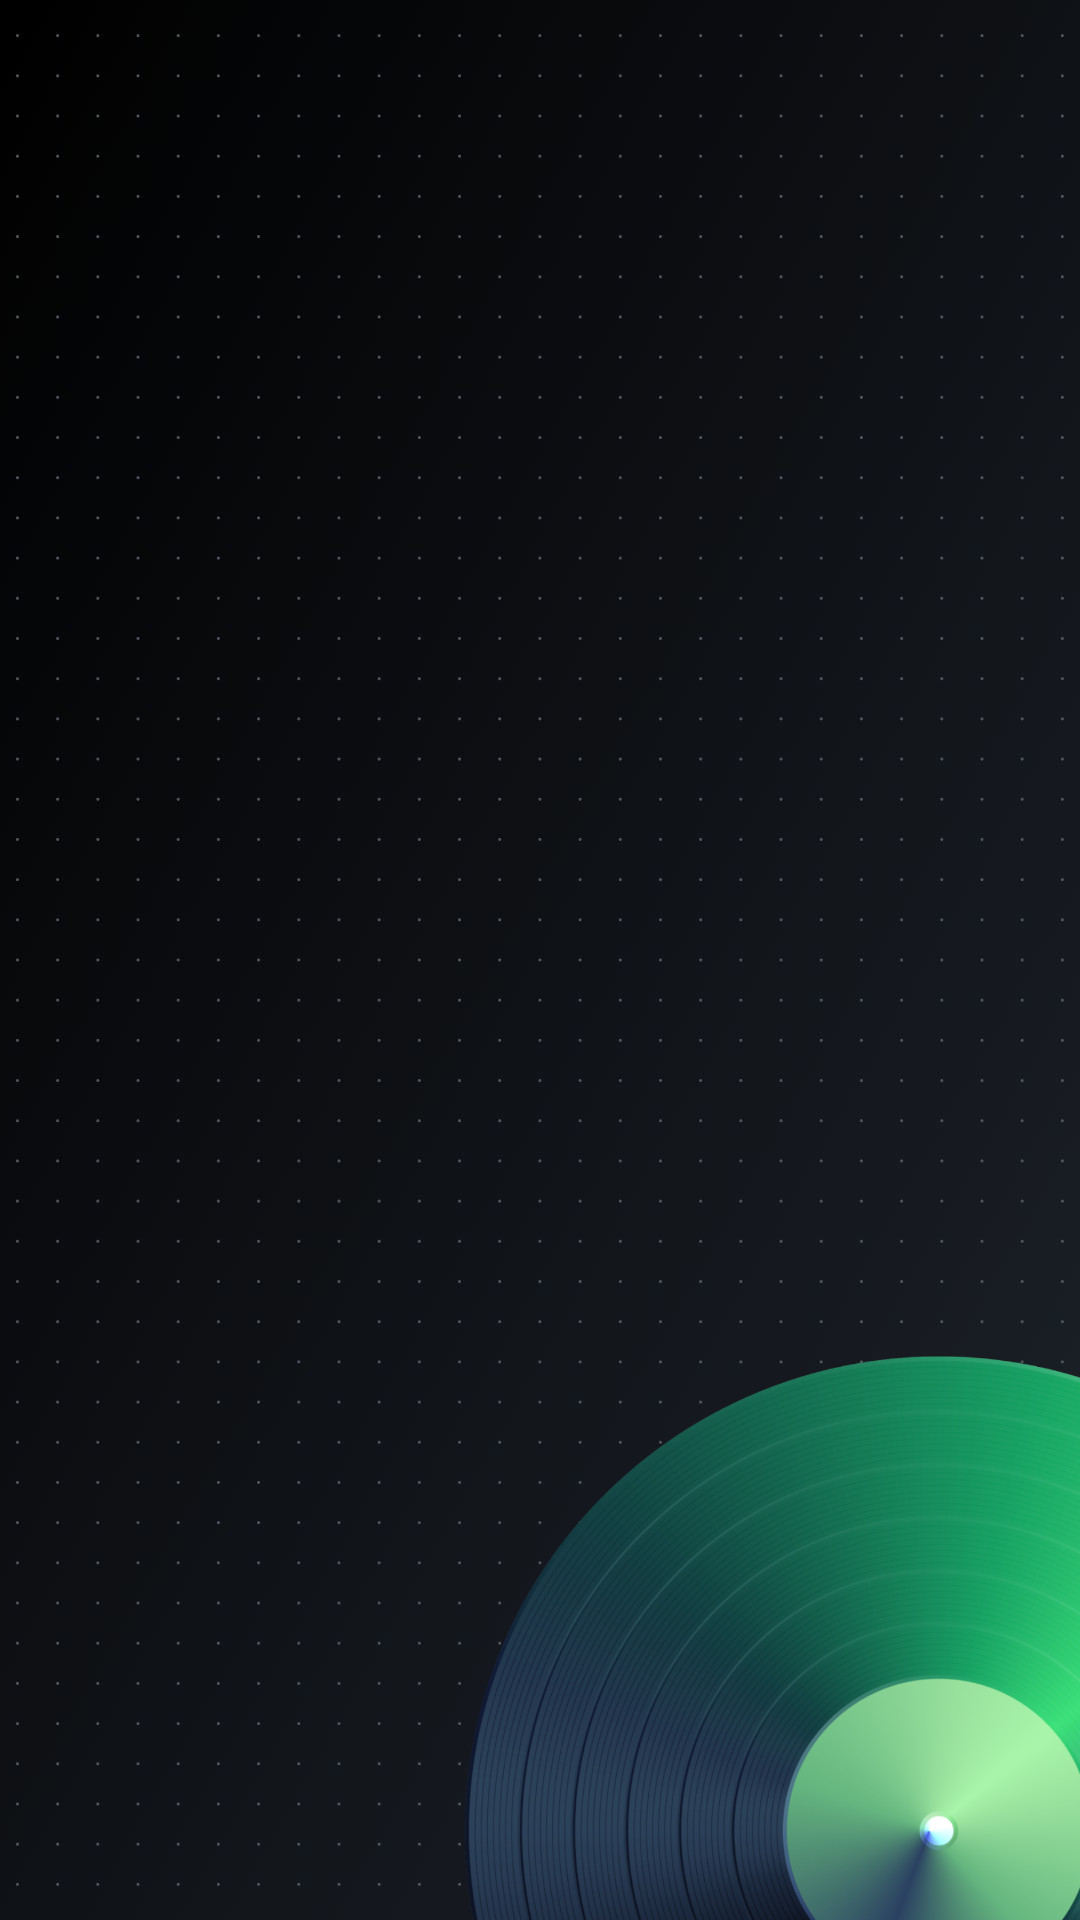
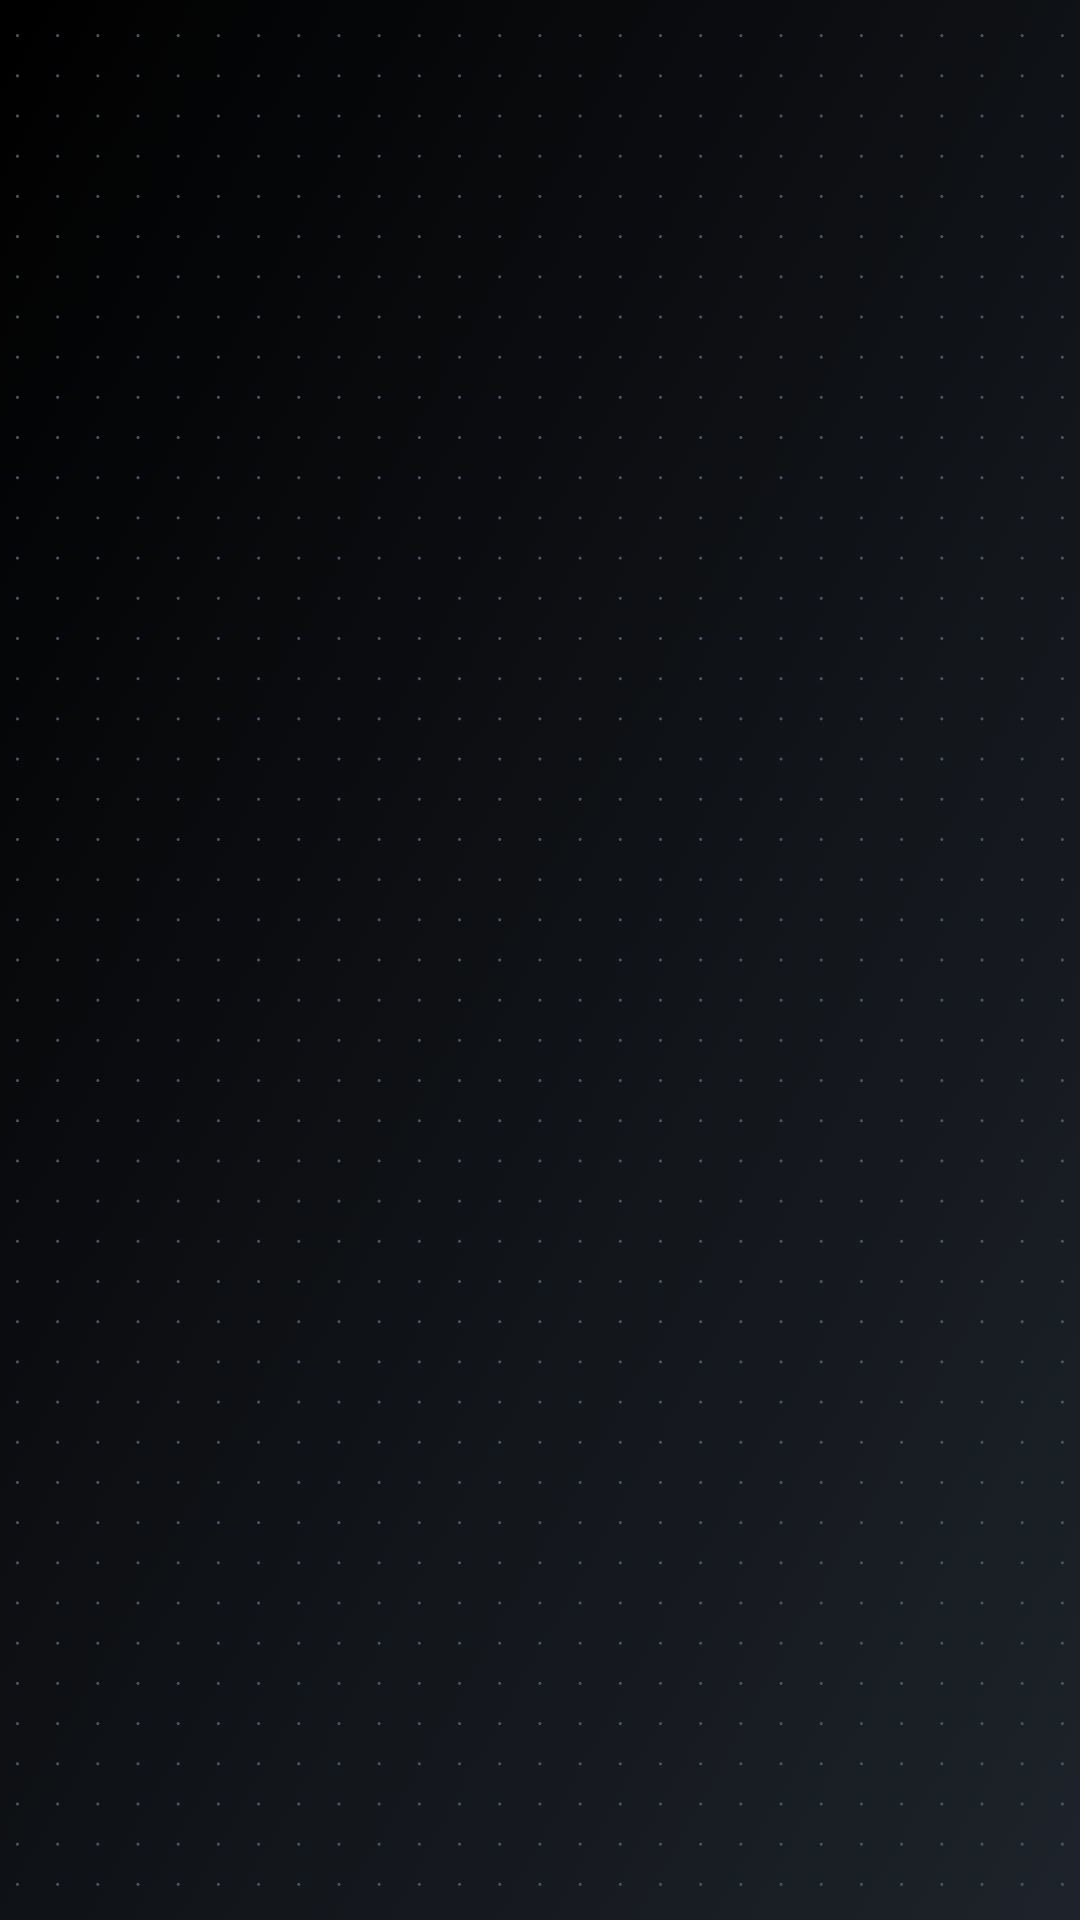
c'app: simpler BG, hide mic visualization using visibility instead display property

Changed region(s): [[0.4278, 0.6875, 1.0, 1.0]]

diff --git a/UltraStar Play Companion/Assets/Scenes/MainScene/MainSceneControl.cs b/UltraStar Play Companion/Assets/Scenes/MainScene/MainSceneControl.cs
@@ -207,10 +207,10 @@ public class MainSceneControl : MonoBehaviour, INeedInjection, ITranslator, IInj
         clientNameTextField.RegisterCallback<BlurEvent>(_ => OnClientNameTextFieldSubmit());
         
         visualizeAudioToggle.value = settings.ShowAudioWaveForm;
-        audioWaveForm.SetVisibleByDisplay(settings.ShowAudioWaveForm);
+        audioWaveForm.SetVisibleByVisibility(settings.ShowAudioWaveForm);
         visualizeAudioToggle.RegisterValueChangedCallback(changeEvent =>
         {
-            audioWaveForm.SetVisibleByDisplay(changeEvent.newValue);
+            audioWaveForm.SetVisibleByVisibility(changeEvent.newValue);
             settings.ShowAudioWaveForm = changeEvent.newValue;
         });
         
@@ -350,7 +350,8 @@ public class MainSceneControl : MonoBehaviour, INeedInjection, ITranslator, IInj
 
     private void Update()
     {
-        if (audioWaveForm.style.display != DisplayStyle.None
+        if (audioWaveForm.IsVisibleByDisplay()
+            && audioWaveForm.IsVisibleByVisibility()
             && audioWaveFormVisualization != null)
         {
             audioWaveFormVisualization.DrawWaveFormMinAndMaxValues(micSampleRecorder.MicSamples);
@@ -414,7 +415,7 @@ public class MainSceneControl : MonoBehaviour, INeedInjection, ITranslator, IInj
             connectionStatusText.text = TranslationManager.GetTranslation(R.Messages.companionApp_connectedTo, "remote" , connectEvent.ServerIpEndPoint.Address);
             onlyVisibleWhenConnected.ForEach(it => it.ShowByDisplay());
             onlyVisibleWhenNotConnected.ForEach(it => it.HideByDisplay());
-            audioWaveForm.SetVisibleByDisplay(settings.ShowAudioWaveForm);
+            audioWaveForm.SetVisibleByVisibility(settings.ShowAudioWaveForm);
             connectionThroubleshootingText.HideByDisplay();
             serverErrorResponseText.HideByDisplay();
             toggleRecordingButton.Focus();
